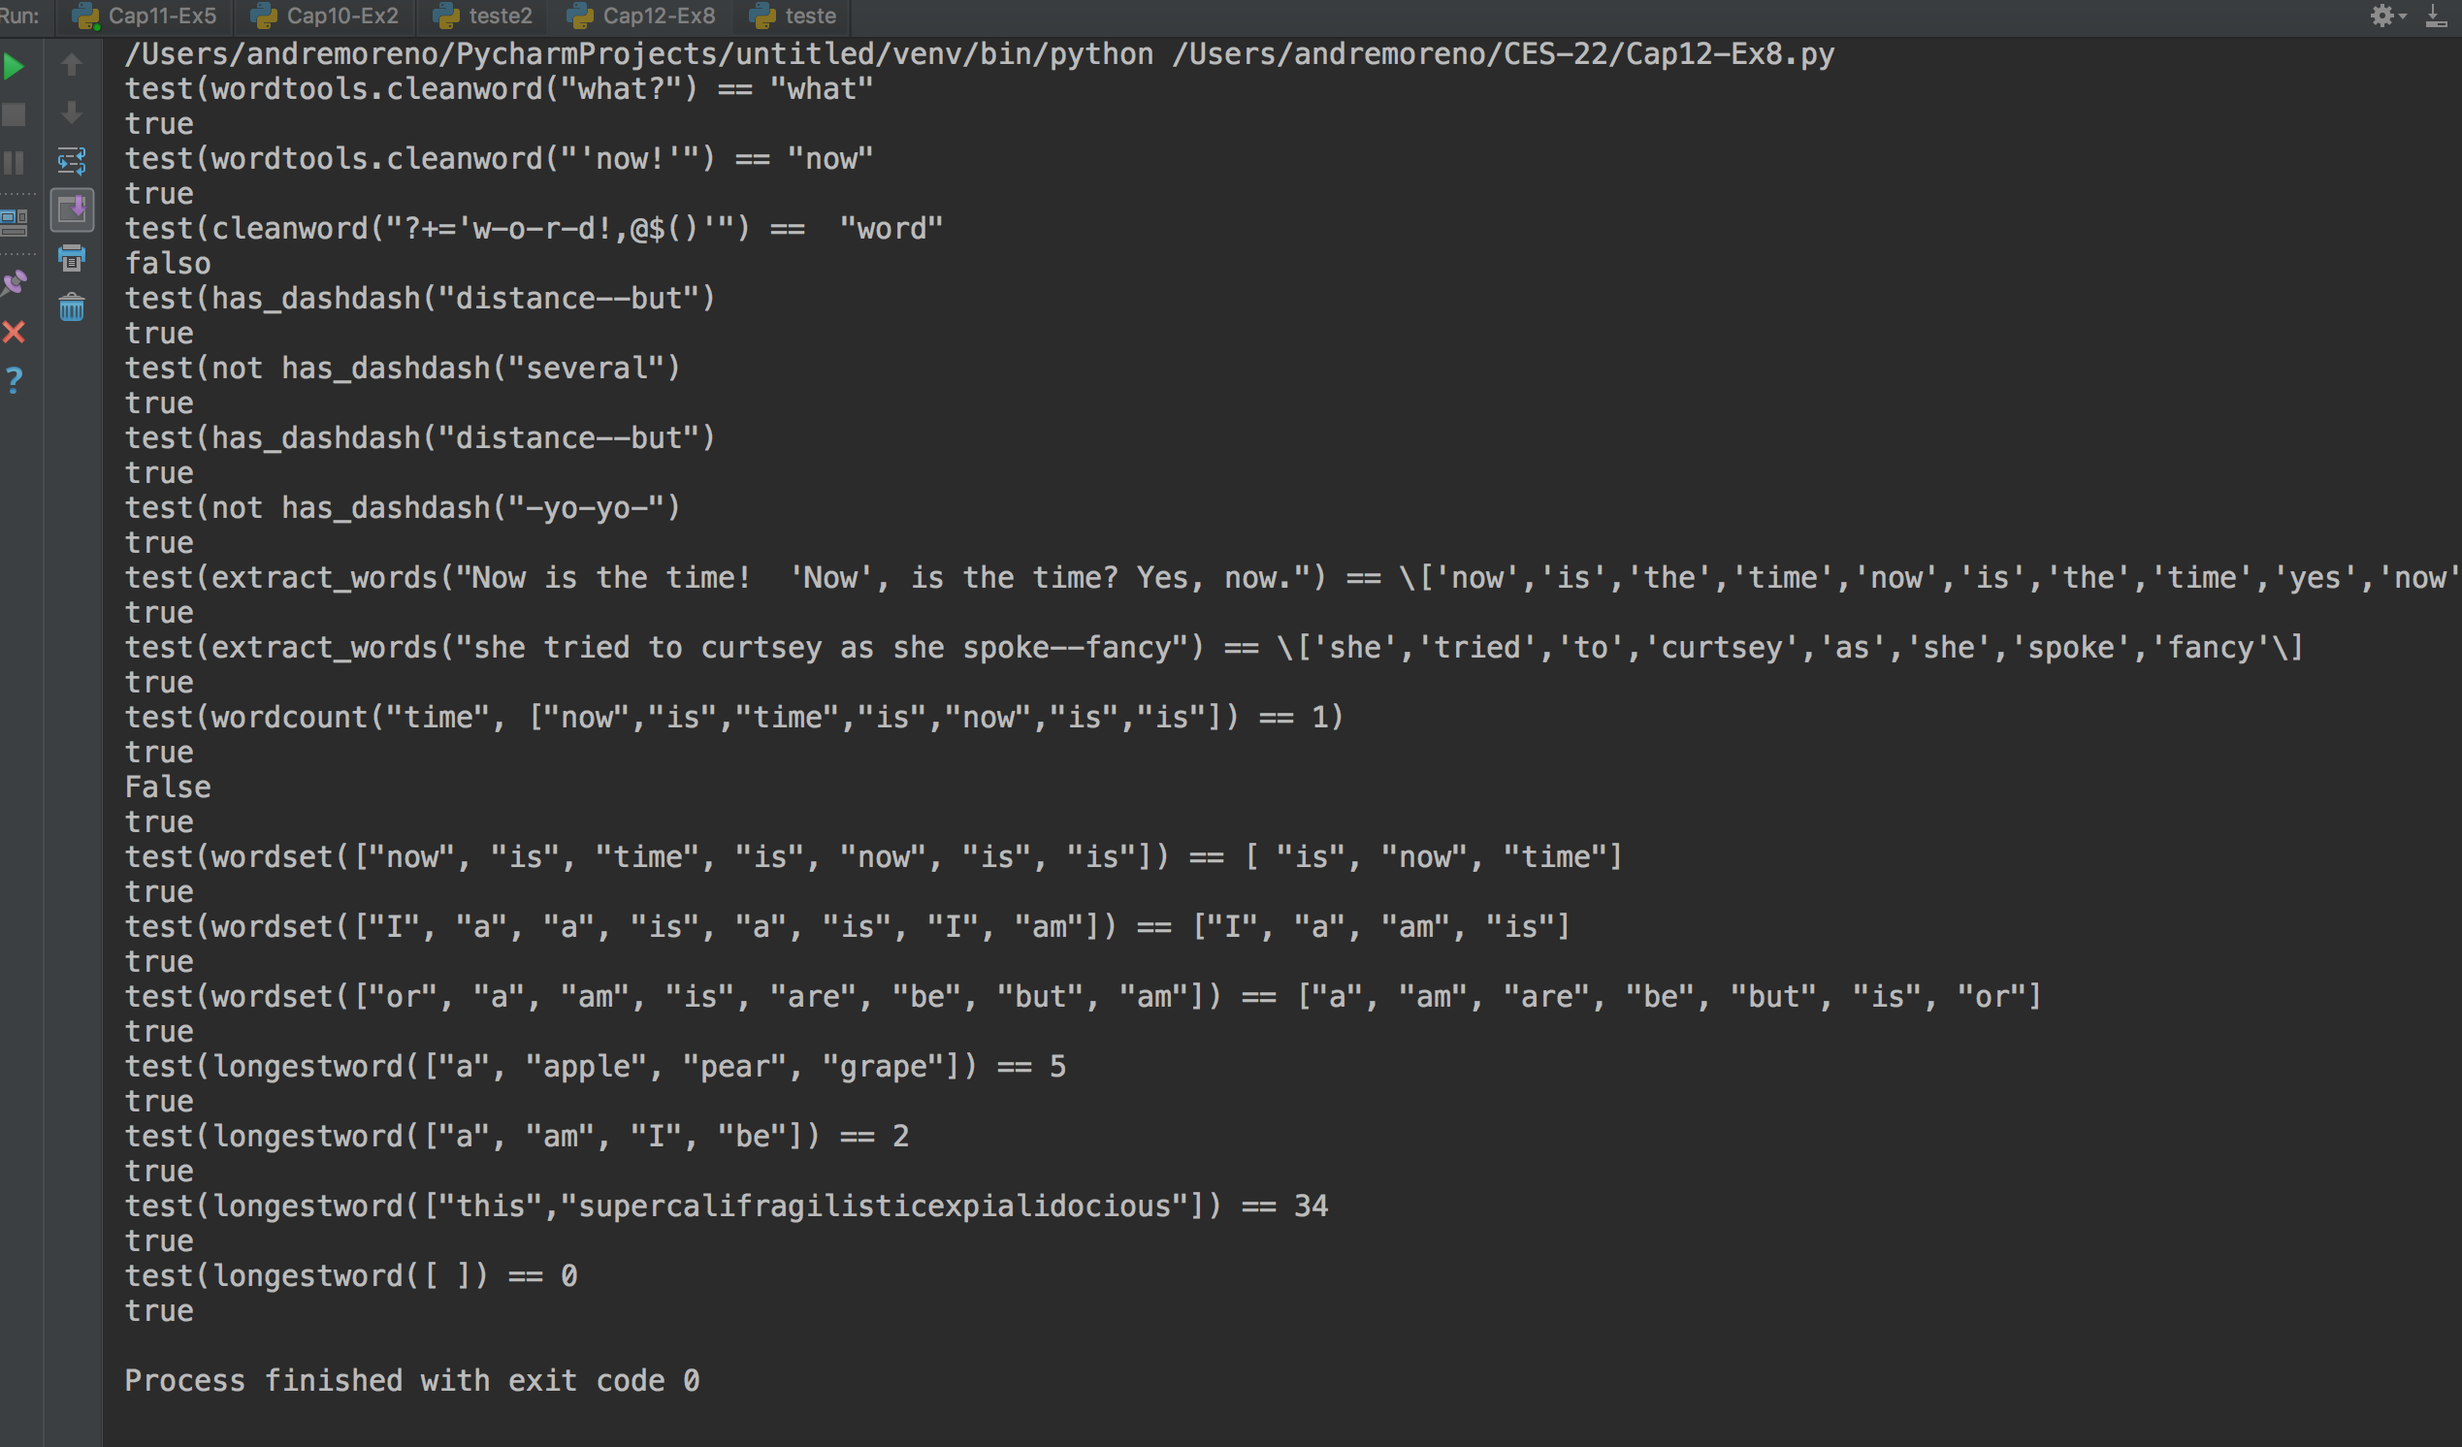
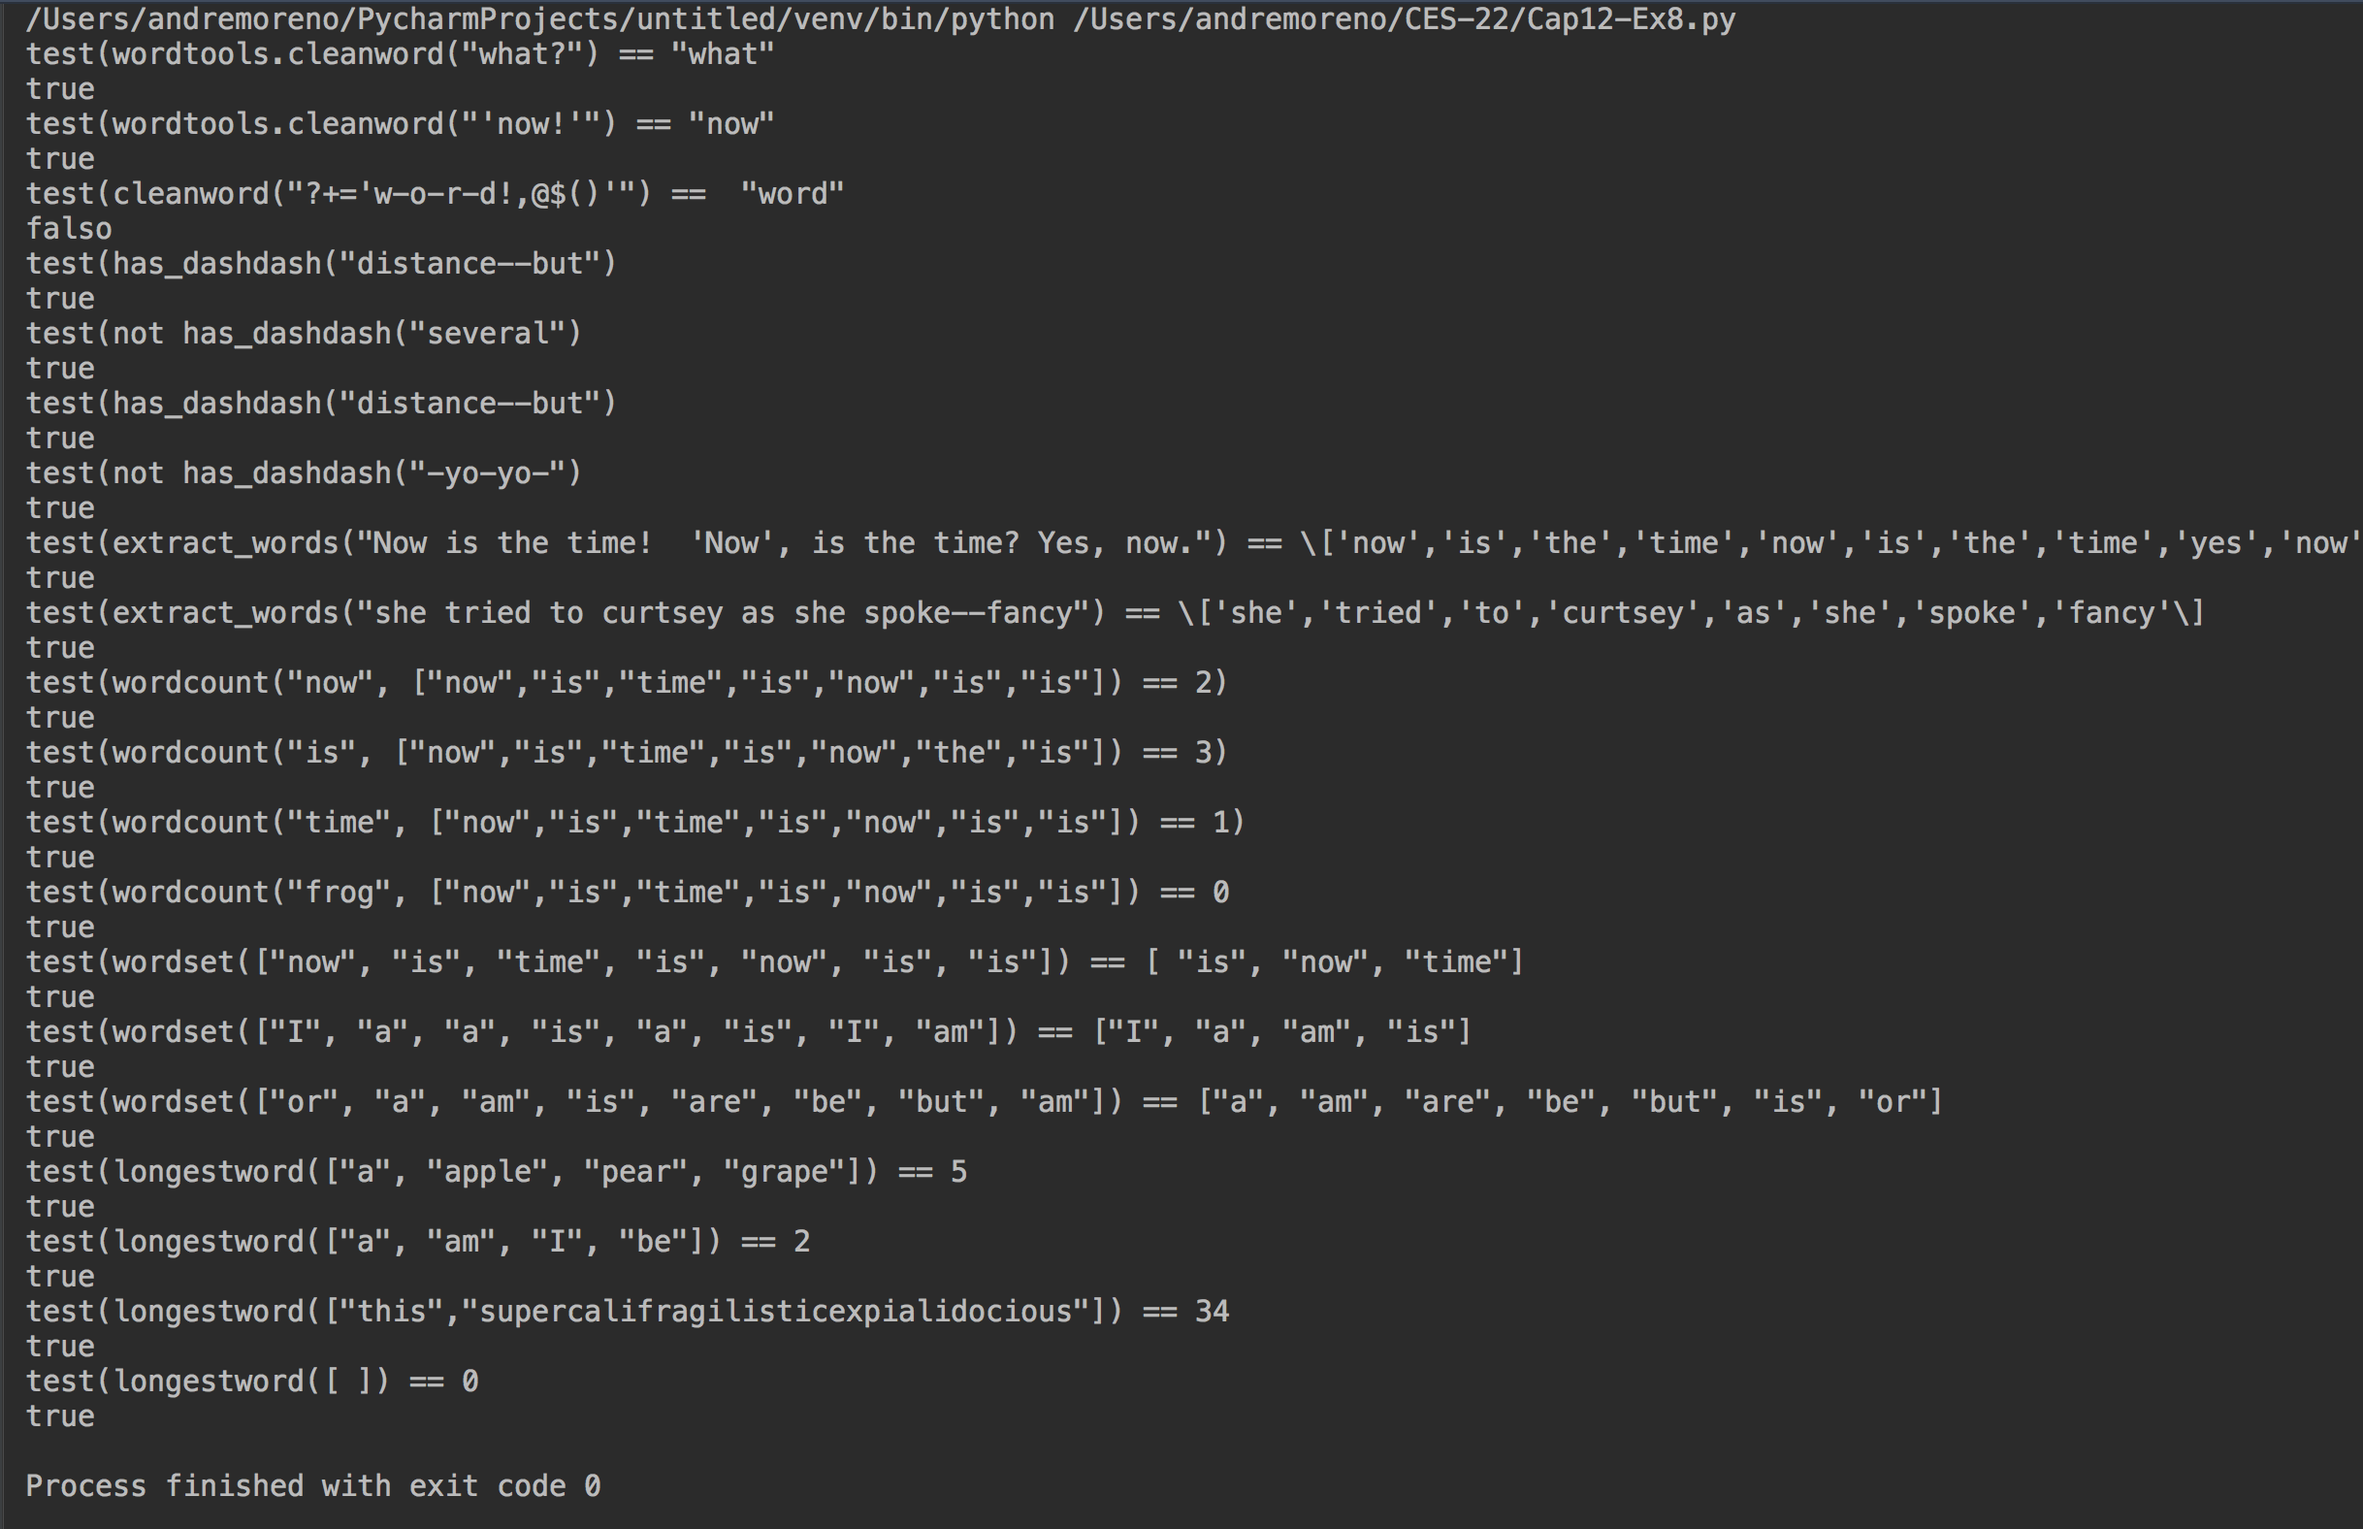
modificaçao no codigo do Cap12-Ex8

Changed region(s): [[0.0, 0.0, 0.9984, 0.9866], [0.9672, 0.0, 0.9984, 0.0308], [0.3432, 0.1542, 0.3744, 0.185]]

diff --git a/Cap12-Ex8.py b/Cap12-Ex8.py
@@ -1,0 +1,62 @@
+import wordtools
+
+print ("test(wordtools.cleanword(\"what?\") == \"what\"")
+wordtools.test(wordtools.cleanword("what?"), "what")
+
+print ("test(wordtools.cleanword(\"'now!'\") == \"now\"")
+wordtools.test(wordtools.cleanword("'now!'"), "now")
+
+print ("test(cleanword(\"?+='w-o-r-d!,@$()'\") ==  \"word\"")
+wordtools.test(wordtools.cleanword("?+='w-o-r-d!,@$()'"),"word")
+
+print ("test(has_dashdash(\"distance--but\")")
+wordtools.test(wordtools.has_dashdash("distance--but"),1)
+
+print ("test(not has_dashdash(\"several\")")
+wordtools.test(wordtools.has_dashdash("spoke--"),1)
+
+print ("test(has_dashdash(\"distance--but\")")
+wordtools.test(wordtools.has_dashdash("distance--but"),1)
+
+print ("test(not has_dashdash(\"-yo-yo-\")")
+wordtools.test(wordtools.has_dashdash("-yo-yo-"),0)
+
+print ("test(extract_words(\"Now is the time!  'Now', is the time? Yes, now.\") == \['now','is','the','time','now','is','the','time','yes','now'\]")
+wordtools.test(wordtools.extract_words("Now is the time!  'Now', is the time? Yes, now."),['now','is','the','time','now','is','the','time','yes','now'])
+
+print ("test(extract_words(\"she tried to curtsey as she spoke--fancy\") == \['she','tried','to','curtsey','as','she','spoke','fancy'\]")
+wordtools.test(wordtools.extract_words("she tried to curtsey as she spoke--fancy"),['she','tried','to','curtsey','as','she','spoke','fancy'])
+
+print ("test(wordcount(\"now\", [\"now\",\"is\",\"time\",\"is\",\"now\",\"is\",\"is\"]) == 2)")
+a = wordtools.wordcount("now", ["now","is","time","is","now","is","is"])
+wordtools.test(2,2)
+
+print ("test(wordcount(\"is\", [\"now\",\"is\",\"time\",\"is\",\"now\",\"the\",\"is\"]) == 3)")
+wordtools.test(wordtools.wordcount("is", ["now","is","time","is","now","the","is"]),3)
+
+print ("test(wordcount(\"time\", [\"now\",\"is\",\"time\",\"is\",\"now\",\"is\",\"is\"]) == 1)")
+wordtools.test(wordtools.wordcount("time", ["now","is","time","is","now","is","is"]),1)
+
+print ("test(wordcount(\"frog\", [\"now\",\"is\",\"time\",\"is\",\"now\",\"is\",\"is\"]) == 0")
+wordtools.test(wordtools.wordcount("frog", ["now","is","time","is","now","is","is"]), 0)
+
+print ("test(wordset([\"now\", \"is\", \"time\", \"is\", \"now\", \"is\", \"is\"]) == [ \"is\", \"now\", \"time\"]")
+wordtools.test(wordtools.wordset(["now", "is", "time", "is", "now", "is", "is"]), ["is", "now", "time"])
+
+print ("test(wordset([\"I\", \"a\", \"a\", \"is\", \"a\", \"is\", \"I\", \"am\"]) == [\"I\", \"a\", \"am\", \"is\"]")
+wordtools.test(wordtools.wordset(["I", "a", "a", "is", "a", "is", "I", "am"]), ["I", "a", "am", "is"])
+
+print ("test(wordset([\"or\", \"a\", \"am\", \"is\", \"are\", \"be\", \"but\", \"am\"]) == [\"a\", \"am\", \"are\", \"be\", \"but\", \"is\", \"or\"]")
+wordtools.test(wordtools.wordset(["or", "a", "am", "is", "are", "be", "but", "am"]), ["a", "am", "are", "be", "but", "is", "or"])
+
+print ("test(longestword([\"a\", \"apple\", \"pear\", \"grape\"]) == 5")
+wordtools.test(wordtools.longestword(["a", "apple", "pear", "grape"]),5)
+
+print ("test(longestword([\"a\", \"am\", \"I\", \"be\"]) == 2")
+wordtools.test(wordtools.longestword(["a", "am", "I", "be"]), 2)
+
+print ("test(longestword([\"this\",\"supercalifragilisticexpialidocious\"]) == 34")
+wordtools.test(wordtools.longestword(["this","supercalifragilisticexpialidocious"]), 34)
+
+print ("test(longestword([ ]) == 0")
+wordtools.test(wordtools.longestword([ ]),0)
